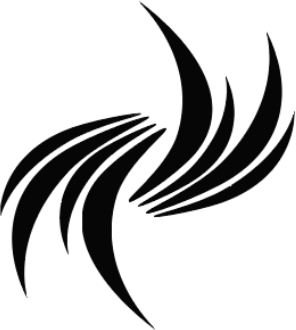
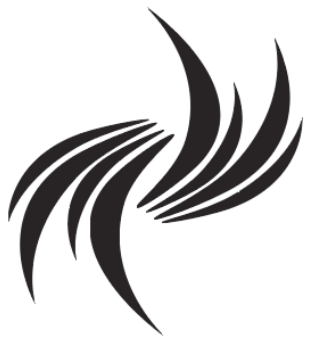
Mobile: real ink wings, drop orb, Design radial-peach app-wide

Changed region(s): [[0.0, 0.0, 1.0, 1.0]]

diff --git a/src/ui/PeachBg.tsx b/src/ui/PeachBg.tsx
@@ -1,0 +1,32 @@
+import React from 'react';
+import { View, StyleSheet, StyleProp, ViewStyle } from 'react-native';
+import Svg, { Defs, RadialGradient, Stop, Rect } from 'react-native-svg';
+
+/**
+ * Design's soft radial-peach background, matching the web/prototype exactly:
+ *   radial-gradient(circle at 28% 16%, #FDE2D6 0%, #FBEFE6 36%, #FFF8F1 62%, #F9D7BD 100%)
+ * Light near-white centre, soft peach at the edges — the whole pre-auth journey
+ * (Welcome / Login / Create / onboarding) shares this backdrop.
+ */
+export function PeachBg({ children, style }: { children?: React.ReactNode; style?: StyleProp<ViewStyle> }) {
+  return (
+    <View style={[styles.fill, style]}>
+      <Svg style={StyleSheet.absoluteFill} pointerEvents="none">
+        <Defs>
+          <RadialGradient id="peachbg" cx="28%" cy="16%" r="118%">
+            <Stop offset="0" stopColor="#FDE2D6" />
+            <Stop offset="0.36" stopColor="#FBEFE6" />
+            <Stop offset="0.62" stopColor="#FFF8F1" />
+            <Stop offset="1" stopColor="#F9D7BD" />
+          </RadialGradient>
+        </Defs>
+        <Rect x="0" y="0" width="100%" height="100%" fill="url(#peachbg)" />
+      </Svg>
+      {children}
+    </View>
+  );
+}
+
+const styles = StyleSheet.create({
+  fill: { flex: 1, backgroundColor: '#FFF8F1' },
+});

diff --git a/src/screens/onboarding/WelcomeScreen.tsx b/src/screens/onboarding/WelcomeScreen.tsx
@@ -1,10 +1,9 @@
 import React from 'react';
 import { View, Text, StyleSheet, Image } from 'react-native';
-import { LinearGradient } from 'expo-linear-gradient';
 import { SafeAreaView } from 'react-native-safe-area-context';
 import { NativeStackScreenProps } from '@react-navigation/native-stack';
 import { colors, font } from '../../theme';
-import { NutriOrb } from '../../ui/NutriOrb';
+import { PeachBg } from '../../ui/PeachBg';
 import { PrimaryButton, SecondaryButton } from '../../ui/Buttons';
 import { LanguagePicker } from '../../ui/LanguagePicker';
 import { RootStackParamList } from '../../navigation/types';
@@ -15,13 +14,11 @@ type Props = NativeStackScreenProps<RootStackParamList, 'Welcome'>;
 export default function WelcomeScreen({ navigation }: Props) {
   const t = useT();
   return (
-    <LinearGradient colors={[colors.peachTop, '#FBE0D2', colors.peachBottom]} style={styles.fill}>
+    <PeachBg>
       <SafeAreaView style={styles.fill}>
+        {/* Wings brand mark — centered, no orb (matches Design's Welcome) */}
         <View style={styles.mascot}>
-          <View style={styles.mascotWrap}>
-            <Image source={require('../../../assets/nutri-wings.png')} style={styles.wings} resizeMode="contain" />
-            <View style={styles.orbOnWings}><NutriOrb size={104} /></View>
-          </View>
+          <Image source={require('../../../assets/nutri-wings.png')} style={styles.wings} resizeMode="contain" />
         </View>
 
         <View style={styles.copy}>
@@ -42,18 +39,16 @@ export default function WelcomeScreen({ navigation }: Props) {
           />
         </View>
       </SafeAreaView>
-    </LinearGradient>
+    </PeachBg>
   );
 }
 
 const styles = StyleSheet.create({
   fill: { flex: 1 },
-  mascot: { flex: 1.3, alignItems: 'center', justifyContent: 'flex-end' },
-  mascotWrap: { width: 250, height: 250, alignItems: 'center', justifyContent: 'center' },
-  wings: { width: 225, height: 250, position: 'absolute', top: 0 },
-  orbOnWings: { position: 'absolute', right: 34, bottom: 40 },
-  copy: { flex: 1, alignItems: 'center', paddingHorizontal: 40, paddingTop: 24 },
-  h1: { fontFamily: font.regular, fontSize: 40, lineHeight: 42, color: colors.ink, textAlign: 'center' },
+  mascot: { flex: 1.2, alignItems: 'center', justifyContent: 'center', paddingTop: 10 },
+  wings: { width: 210, height: 200 },
+  copy: { flex: 1, alignItems: 'center', paddingHorizontal: 40, paddingTop: 4 },
+  h1: { fontFamily: font.medium, fontSize: 38, lineHeight: 42, color: colors.ink, textAlign: 'center' },
   sub: {
     fontFamily: font.regular,
     fontSize: 15,

diff --git a/App.tsx b/App.tsx
@@ -1,7 +1,7 @@
 import React from 'react';
-import { View } from 'react-native';
+import { View, StyleSheet } from 'react-native';
 import { StatusBar } from 'expo-status-bar';
-import { NavigationContainer } from '@react-navigation/native';
+import { NavigationContainer, DefaultTheme } from '@react-navigation/native';
 import { SafeAreaProvider } from 'react-native-safe-area-context';
 import { GestureHandlerRootView } from 'react-native-gesture-handler';
 import {
@@ -11,23 +11,30 @@ import {
 import RootNavigator from './src/navigation/RootNavigator';
 import { SessionProvider } from './src/state/SessionProvider';
 import { LanguageProvider } from './src/i18n';
+import { PeachBg } from './src/ui/PeachBg';
+
+// One soft radial-peach behind the whole app; every screen renders transparent on top.
+const navTheme = { ...DefaultTheme, colors: { ...DefaultTheme.colors, background: 'transparent' } };
 
 export default function App() {
   const [loaded] = useFonts({
     Poppins_400Regular, Poppins_500Medium, Poppins_600SemiBold, Poppins_700Bold,
   });
 
-  if (!loaded) return <View style={{ flex: 1, backgroundColor: '#FCF1EC' }} />;
+  if (!loaded) return <View style={{ flex: 1, backgroundColor: '#FFF8F1' }} />;
 
   return (
     <GestureHandlerRootView style={{ flex: 1 }}>
       <SafeAreaProvider>
         <LanguageProvider>
           <SessionProvider>
-            <NavigationContainer>
-              <StatusBar style="dark" />
-              <RootNavigator />
-            </NavigationContainer>
+            <View style={{ flex: 1 }}>
+              <PeachBg style={StyleSheet.absoluteFill} />
+              <NavigationContainer theme={navTheme}>
+                <StatusBar style="dark" />
+                <RootNavigator />
+              </NavigationContainer>
+            </View>
           </SessionProvider>
         </LanguageProvider>
       </SafeAreaProvider>

diff --git a/src/screens/onboarding/AuthScreen.tsx b/src/screens/onboarding/AuthScreen.tsx
@@ -1,9 +1,9 @@
 import React, { useState } from 'react';
 import { View, Text, StyleSheet, TextInput, Pressable, KeyboardAvoidingView, Platform, ActivityIndicator } from 'react-native';
-import { LinearGradient } from 'expo-linear-gradient';
 import { SafeAreaView } from 'react-native-safe-area-context';
 import { NativeStackScreenProps } from '@react-navigation/native-stack';
 import { colors, font, radius, shadow } from '../../theme';
+import { PeachBg } from '../../ui/PeachBg';
 import { PrimaryButton } from '../../ui/Buttons';
 import { LanguagePicker } from '../../ui/LanguagePicker';
 import { supabase } from '../../lib/supabase';
@@ -52,7 +52,7 @@ export default function AuthScreen({ route, navigation }: Props) {
   };
 
   return (
-    <LinearGradient colors={[colors.peachTop, '#FBE3D6', colors.peachBottom]} style={styles.fill}>
+    <PeachBg>
       <SafeAreaView style={styles.fill}>
         <View style={styles.header}>
           <Pressable onPress={() => navigation.goBack()} hitSlop={12} style={styles.backBtn}>
@@ -89,7 +89,7 @@ export default function AuthScreen({ route, navigation }: Props) {
           </View>
         </KeyboardAvoidingView>
       </SafeAreaView>
-    </LinearGradient>
+    </PeachBg>
   );
 }
 

diff --git a/src/screens/main/CalendarScreen.tsx b/src/screens/main/CalendarScreen.tsx
@@ -119,8 +119,8 @@ export default function CalendarScreen() {
 }
 
 const styles = StyleSheet.create({
-  fill: { flex: 1, backgroundColor: colors.peachTop },
-  fillC: { flex: 1, backgroundColor: colors.peachTop, alignItems: 'center', justifyContent: 'center' },
+  fill: { flex: 1, backgroundColor: 'transparent' },
+  fillC: { flex: 1, backgroundColor: 'transparent', alignItems: 'center', justifyContent: 'center' },
   title: { fontFamily: font.bold, fontSize: 24, color: colors.ink, textAlign: 'center', marginBottom: 12 },
   todayCard: { borderRadius: radius.lg, padding: 18 },
   todayLabel: { fontFamily: font.medium, fontSize: 12, color: 'rgba(255,255,255,0.9)' },

diff --git a/src/screens/main/ProgressScreen.tsx b/src/screens/main/ProgressScreen.tsx
@@ -128,8 +128,8 @@ const Stat3 = ({ n, l }: { n: string; l: string }) => (
 );
 
 const styles = StyleSheet.create({
-  fill: { flex: 1, backgroundColor: colors.peachTop },
-  fillC: { flex: 1, backgroundColor: colors.peachTop, alignItems: 'center', justifyContent: 'center' },
+  fill: { flex: 1, backgroundColor: 'transparent' },
+  fillC: { flex: 1, backgroundColor: 'transparent', alignItems: 'center', justifyContent: 'center' },
   title: { fontFamily: font.bold, fontSize: 26, color: colors.ink },
   sub: { fontFamily: font.regular, fontSize: 14, color: colors.muted, marginTop: 2 },
   casCard: { backgroundColor: colors.white, borderWidth: 1.5, borderColor: '#F3C9BC', borderRadius: radius.lg, padding: 18, marginTop: 16, ...shadow.card },

diff --git a/src/screens/onboarding/OnboardingLayout.tsx b/src/screens/onboarding/OnboardingLayout.tsx
@@ -42,7 +42,7 @@ export function OnboardingLayout({
   const t = useT();
   const resolvedNextLabel = nextLabel ?? t('ui.next', 'Next');
   return (
-    <LinearGradient colors={[colors.peachTop, '#FBE3D6', colors.peachBottom]} style={styles.fill}>
+    <View style={styles.fill}>
       <SafeAreaView style={styles.fill} edges={['top', 'bottom']}>
         <View style={styles.head}>
           {showBack ? (
@@ -81,7 +81,7 @@ export function OnboardingLayout({
           )}
         </View>
       </SafeAreaView>
-    </LinearGradient>
+    </View>
   );
 }
 

diff --git a/src/screens/settings/PersonalInfoScreen.tsx b/src/screens/settings/PersonalInfoScreen.tsx
@@ -93,8 +93,8 @@ export default function PersonalInfoScreen({ navigation }: any) {
 }
 
 const styles = StyleSheet.create({
-  fill: { flex: 1, backgroundColor: colors.peachTop },
-  fillC: { flex: 1, backgroundColor: colors.peachTop, alignItems: 'center', justifyContent: 'center' },
+  fill: { flex: 1, backgroundColor: 'transparent' },
+  fillC: { flex: 1, backgroundColor: 'transparent', alignItems: 'center', justifyContent: 'center' },
   headerBar: { flexDirection: 'row', alignItems: 'center', justifyContent: 'space-between', paddingHorizontal: 20, paddingTop: 4 },
   back: { fontSize: 30, color: colors.ink, width: 24 },
   headerTitle: { fontFamily: font.semibold, fontSize: 17, color: colors.ink },

diff --git a/src/screens/settings/SettingsScreen.tsx b/src/screens/settings/SettingsScreen.tsx
@@ -87,8 +87,8 @@ export default function SettingsScreen({ navigation }: any) {
 }
 
 const styles = StyleSheet.create({
-  fill: { flex: 1, backgroundColor: colors.peachTop },
-  fillC: { flex: 1, backgroundColor: colors.peachTop, alignItems: 'center', justifyContent: 'center' },
+  fill: { flex: 1, backgroundColor: 'transparent' },
+  fillC: { flex: 1, backgroundColor: 'transparent', alignItems: 'center', justifyContent: 'center' },
   headerBar: { flexDirection: 'row', alignItems: 'center', justifyContent: 'space-between', paddingHorizontal: 20, paddingTop: 4 },
   back: { fontSize: 30, color: colors.ink, width: 24 },
   headerTitle: { fontFamily: font.semibold, fontSize: 17, color: colors.ink },

diff --git a/src/navigation/AppStack.tsx b/src/navigation/AppStack.tsx
@@ -21,7 +21,7 @@ const Stack = createNativeStackNavigator();
 /** The signed-in, onboarded app: tabs + the daily mood/energy gate (modal). */
 export default function AppStack() {
   return (
-    <Stack.Navigator screenOptions={{ headerShown: false }}>
+    <Stack.Navigator screenOptions={{ headerShown: false, contentStyle: { backgroundColor: 'transparent' } }}>
       <Stack.Screen name="Tabs" component={MainTabs} />
       <Stack.Screen name="Gate" component={MoodEnergyGate} options={{ presentation: 'modal' }} />
       <Stack.Screen name="EditPeriod" component={EditPeriodScreen} options={{ presentation: 'modal' }} />

diff --git a/src/navigation/MainTabs.tsx b/src/navigation/MainTabs.tsx
@@ -25,7 +25,7 @@ const LABEL: Record<keyof MainTabParamList, [string, string]> = {
 export default function MainTabs() {
   const t = useT();
   return (
-    <Tab.Navigator
+    <Tab.Navigator sceneContainerStyle={{ backgroundColor: 'transparent' }}
       screenOptions={({ route }) => ({
         headerShown: false,
         tabBarActiveTintColor: colors.coral,

diff --git a/src/navigation/RootNavigator.tsx b/src/navigation/RootNavigator.tsx
@@ -22,7 +22,7 @@ export default function RootNavigator() {
   const { session, onboarded } = useSession();
 
   return (
-    <Stack.Navigator screenOptions={{ headerShown: false }}>
+    <Stack.Navigator screenOptions={{ headerShown: false, contentStyle: { backgroundColor: 'transparent' } }}>
       {!session ? (
         <>
           <Stack.Screen name="Welcome" component={WelcomeScreen} />